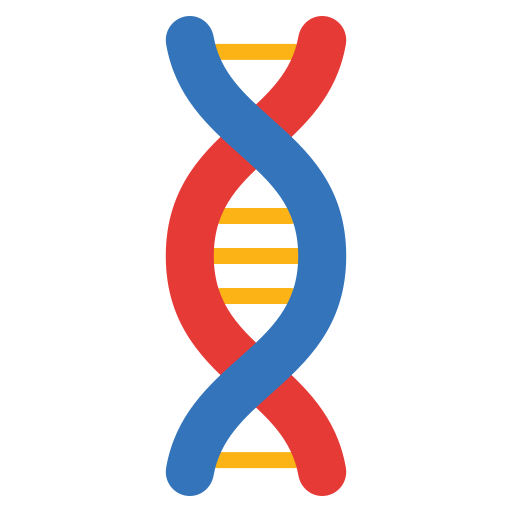
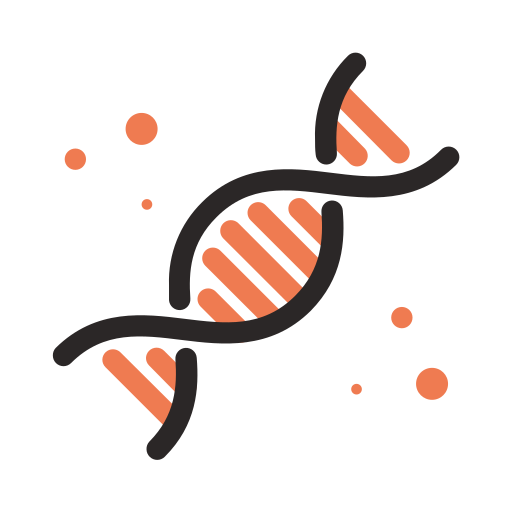
diff DNA image + attribution

diff --git a/frontend/README.md b/frontend/README.md
@@ -18,3 +18,8 @@ Currently, two official plugins are available:
 
 - [@vitejs/plugin-react](https://github.com/vitejs/vite-plugin-react/blob/main/packages/plugin-react/README.md) uses [Babel](https://babeljs.io/) for Fast Refresh
 - [@vitejs/plugin-react-swc](https://github.com/vitejs/vite-plugin-react-swc) uses [SWC](https://swc.rs/) for Fast Refresh
+
+
+### attributions
+
+example DNA image: https://commons.wikimedia.org/wiki/File:202104_Laboratory_instrument_dna.svg
